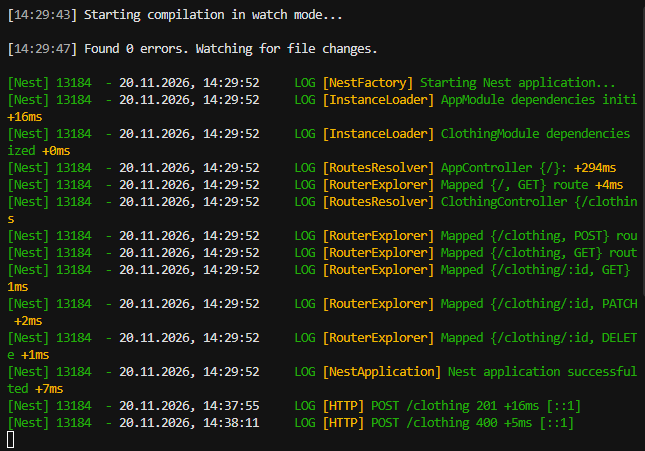
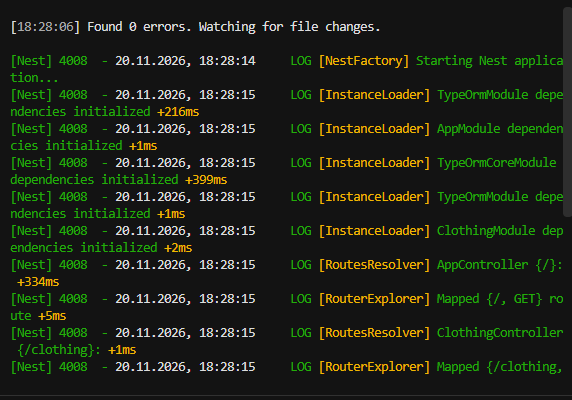
Update README with screenshots

Changed region(s): [[0.0, 0.0, 1.0, 1.0], [0.1783, 0.72, 0.9808, 0.78]]

diff --git a/pr-nestjs-validation/README.md b/pr-nestjs-validation/README.md
@@ -1,0 +1,95 @@
+# Звіт про виконання практичної роботи № 7
+
+**Тема:** Інтеграція реляційної бази даних PostgreSQL та ORM TypeORM у веб-застосунок на базі фреймворку NestJS.
+
+**Мета роботи:** Набути практичних навичок підключення та налаштування реляційної СКБД PostgreSQL у проєкті NestJS, проєктування сутностей (Entity) за допомогою декораторів TypeORM, реалізації асинхронних CRUD-операцій з використанням патерну Repository та забезпечення фізичного збереження даних між перезапусками сервера.
+
+---
+
+## 1. Хід виконання роботи
+
+### 1.1. Розгортання та конфігурація бази даних PostgreSQL
+Для зберігання даних веб-застосунку використано реляційну систему керування базами даних **PostgreSQL 14**, розгорнуту локально (порт `5433`), та графічний клієнт адміністрування **pgAdmin 4**.
+* Створено окрему базу даних **`store_db`**.
+* Налаштовано роль суперкористувача `postgres` з паролем для автентифікації застосунку.
+
+*(Місце для скріншота: вікно pgAdmin 4 із розгорнутою базою даних `store_db` та створеною таблицею `clothing` у схемі `public`)*
+
+### 1.2. Підключення TypeORM у кореневому модулі (`AppModule`)
+До проєкту встановлено необхідні залежності (`@nestjs/typeorm`, `typeorm`, `pg`). У файлі `src/app.module.ts` виконано конфігурацію модуля `TypeOrmModule.forRoot()` з увімкненими опціями автоматичного завантаження сутностей (`autoLoadEntities: true`) та синхронізації схеми бази даних (`synchronize: true`):
+
+```typescript
+import { Module, NestModule, MiddlewareConsumer } from '@nestjs/common';
+import { TypeOrmModule } from '@nestjs/typeorm';
+import { AppController } from './app.controller';
+import { AppService } from './app.service';
+import { ClothingModule } from './clothing/clothing.module';
+import { HttpLoggingMiddleware } from './common/middleware/http-logger.middleware';
+
+@Module({
+  imports: [
+    TypeOrmModule.forRoot({
+      type: 'postgres',
+      host: 'localhost',
+      port: 5433,
+      username: 'postgres',
+      password: '12345678',
+      database: 'store_db',
+      autoLoadEntities: true,
+      synchronize: true,
+    }),
+    ClothingModule,
+  ],
+  controllers: [AppController],
+  providers: [AppService],
+})
+export class AppModule implements NestModule {
+  configure(consumer: MiddlewareConsumer) {
+    consumer.apply(HttpLoggingMiddleware).forRoutes('*');
+  }
+}
+```
+
+### 1.3. Проєктування сутності (`ClothingEntity`)
+Замість зберігання даних у оперативній пам'яті (`in-memory`) створено модель таблиці `clothing` у файлі `src/clothing/entities/clothing.entity.ts` з використанням декораторів TypeORM:
+* `@PrimaryGeneratedColumn('uuid')` — первинний ключ формату UUID;
+* `@Column(...)` — поля опису товару (`title`, `price` типу `decimal`, `size` типу `enum`, `material`, `color`);
+* `@CreateDateColumn()` та `@UpdateDateColumn()` — автоматичні мітки часу створення та останнього оновлення запису.
+
+### 1.4. Реалізація сервісу та контролера (CRUD-операції)
+У `ClothingModule` зареєстровано сутність через `TypeOrmModule.forFeature([ClothingEntity])`. У `ClothingService` інжектовано репозиторій `@InjectRepository(ClothingEntity) private readonly clothingRepository: Repository<ClothingEntity>` та реалізовано повний набір асинхронних методів роботи з БД:
+* `create()` — створення та збереження нового запису (`create` + `save`);
+* `findAll()` — отримання переліку всіх записів (`find`);
+* `findOne()` — пошук запису за ідентифікатором UUID (`findOneBy`) з викиданням винятку `NotFoundException` у разі відсутності;
+* `update()` — часткове оновлення полів запису (`preload` + `save`);
+* `remove()` — видалення запису з бази даних (`remove`).
+
+---
+
+## 2. Тестування та перевірка збереження стану
+
+Після запуску сервера (`npm run start:dev`) відбулася автоматична міграція схеми та створення таблиці `clothing` у базі даних `store_db`. Працездатність усіх ендпоінтів перевірено за допомогою HTTP-запитів (`curl`):
+
+| HTTP-метод | Ендпоінт | Призначення | Результат виконання |
+| :--- | :--- | :--- | :--- |
+| **POST** | `/clothing` | Створення нового товару («Кросівки бігові») | Код `201 Created`, згенеровано UUID `158bd360-0826-40ee-a483-c8766c5580bf` та мітки часу |
+| **GET** | `/clothing` | Отримання списку всіх товарів | Код `200 OK`, повернено масив із збереженим записом із PostgreSQL |
+| **PATCH** | `/clothing/:id` | Оновлення вартості товару (`2890.00`) | Код `200 OK`, ціну оновлено, автоматично змінено поле `updatedAt` |
+| **DELETE** | `/clothing/:id` | Видалення товару за UUID | Код `200 OK`, запис видалено з таблиці |
+
+**Перевірка персистентності (збереження даних між перезапусками):**
+Після повної зупинки процесу Node.js (`Ctrl + C`) та повторного запуску сервера (`npm run start:dev`) виконано повторний запит `GET /clothing` та перевірено вміст таблиці через інструмент *View/Edit Data $\rightarrow$ All Rows* у pgAdmin 4. Раніше створені та оновлені дані залишилися незмінними у базі даних PostgreSQL.
+
+*(Місце для скріншотів: 1) термінал VS Code із логами успішного старту NestJS та виконанням POST/GET/PATCH запитів; 2) таблиця `clothing` із рядком даних у pgAdmin 4)*
+
+
+---
+![Робота сервера та БД](./image/1.png)
+
+![Таблиця clothing у pgAdmin](./image/image.png)
+
+## 3. Висновки
+
+У ході виконання практичної роботи № 7 було успішно здійснено перехід від тимчасового зберігання даних в оперативній пам'яті до повноцінної реляційної бази даних PostgreSQL. Налаштовано інтеграцію ORM TypeORM у застосунку NestJS, описано структуру таблиці `clothing` за допомогою декораторів сутностей та переведено бізнес-логіку сервісу на асинхронну взаємодію через патерн Repository. Тестування підтвердило коректну роботу всіх CRUD-операцій та надійне фізичне збереження стану застосунку незалежно від перезапусків сервера.
+
+[def]: pr-6-web/
